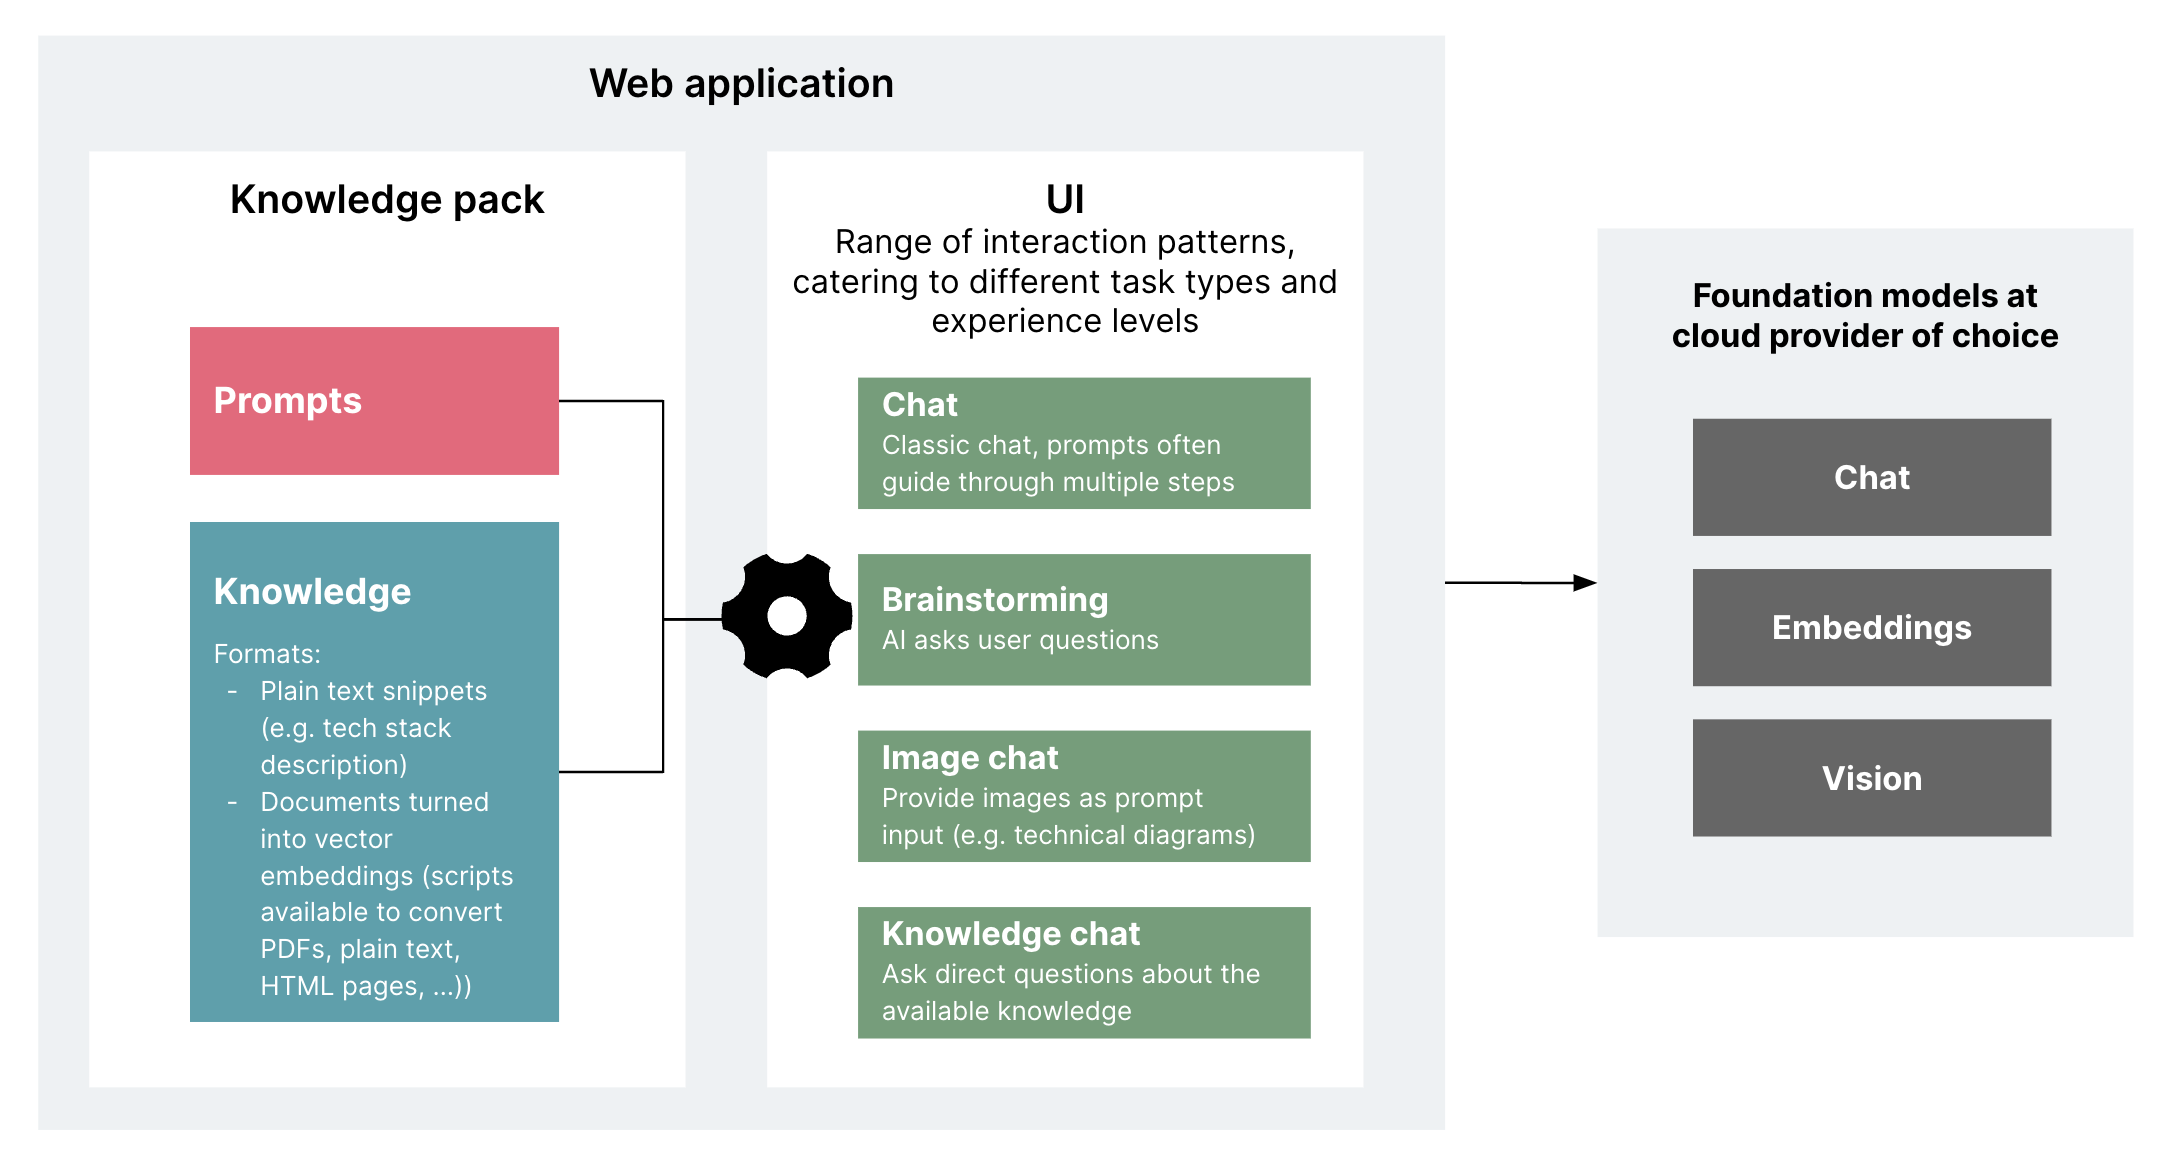
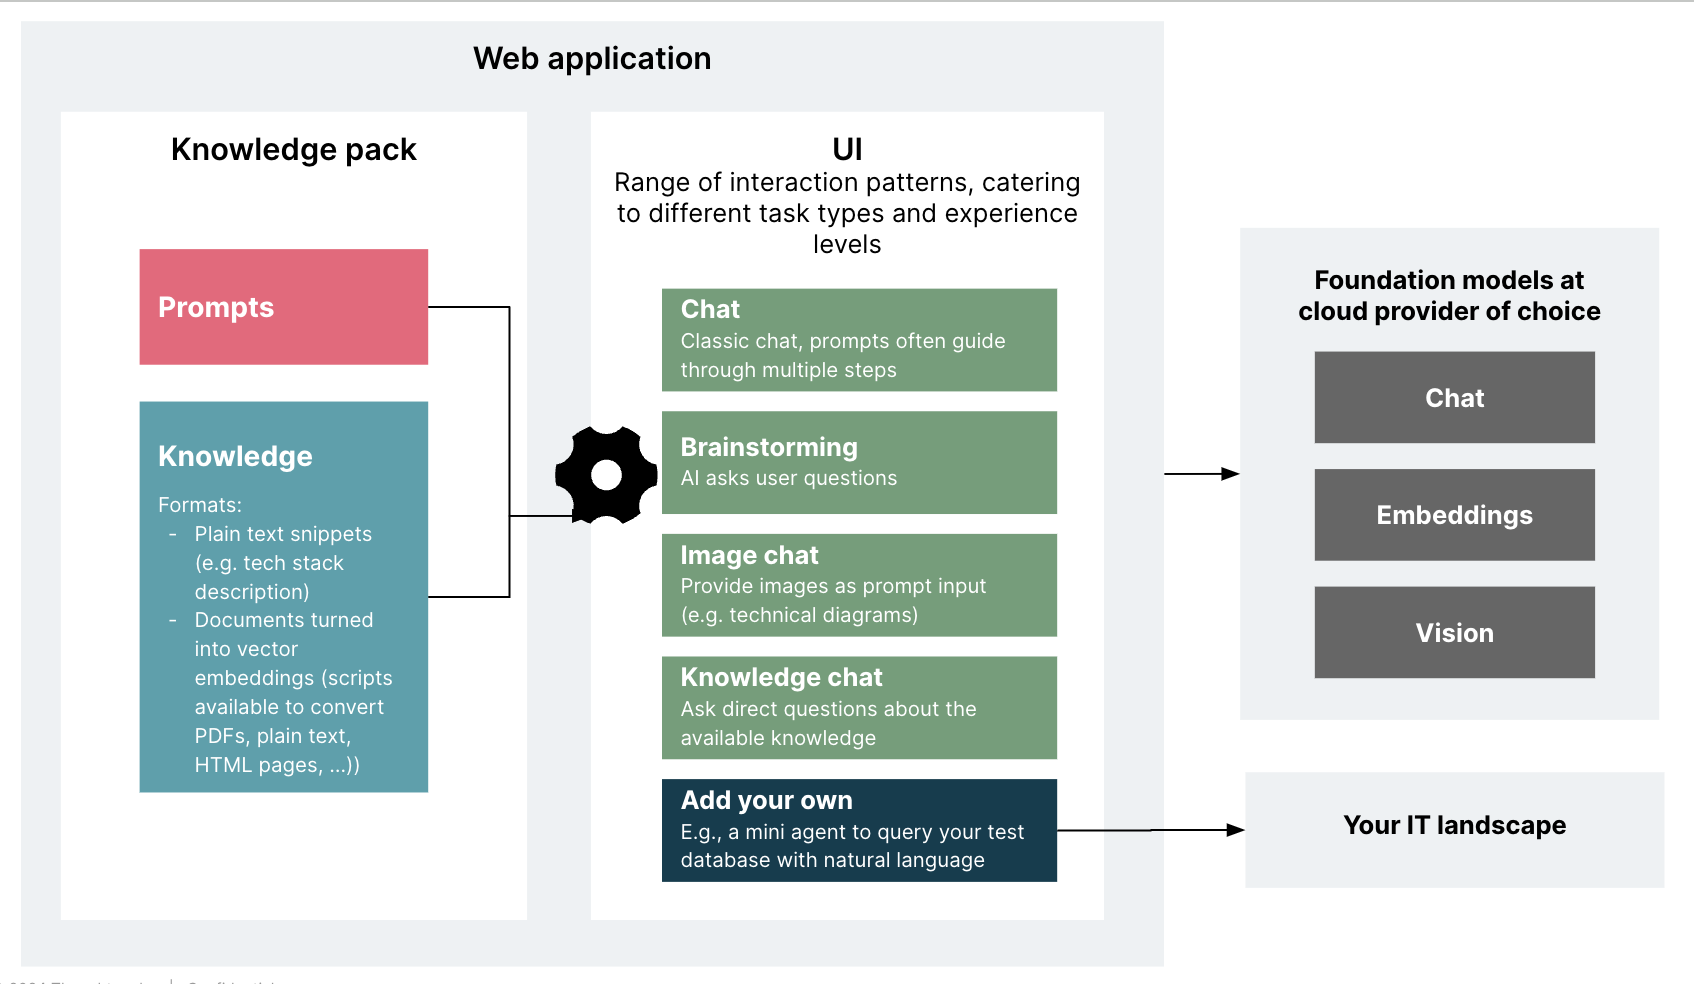
[docs] Mention custom tabs

diff --git a/README.md b/README.md
@@ -159,3 +159,9 @@ default_models:
 ```
 
 Only embeddings is mandatory. When chat or vision are not set, the app will show a dropdown allowing the user to select the model to use.
+
+### 5. Add custom interaction modes
+
+Because the application uses Gradio, a frontend framework that is meant for quick UI prototyping with machine learning models, it is quite easy to add additional tabs and UI elements to the application. Beyond the interaction modes available, you can think about what other more custom interactions would be helpful to your delivery team.
+
+The code shows one common example: Querying a database with natural language. You can adapt that to be connected to your own database, e.g. a database in a test environment, to be used by testers, new team members who are not familiar with the schema yet, or even business stakeholders.
